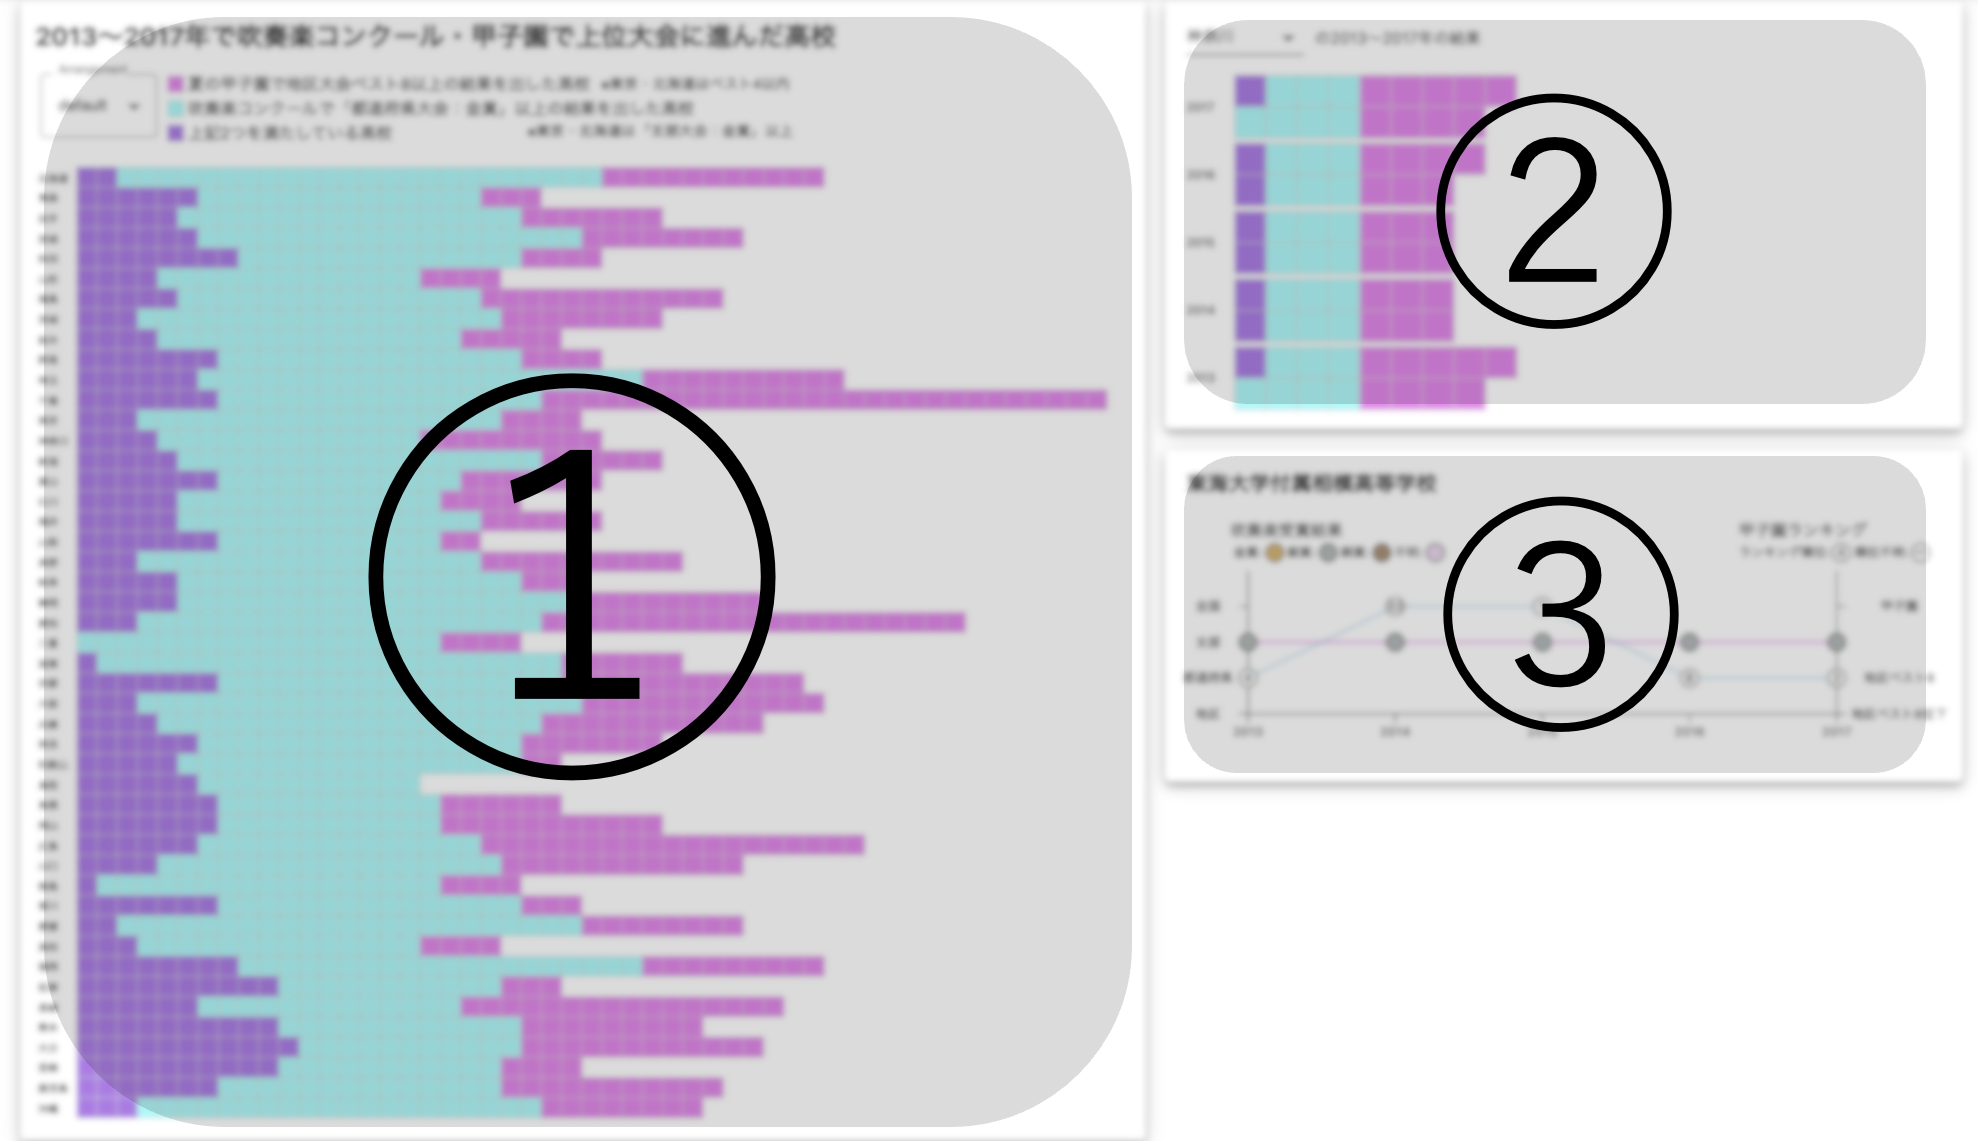
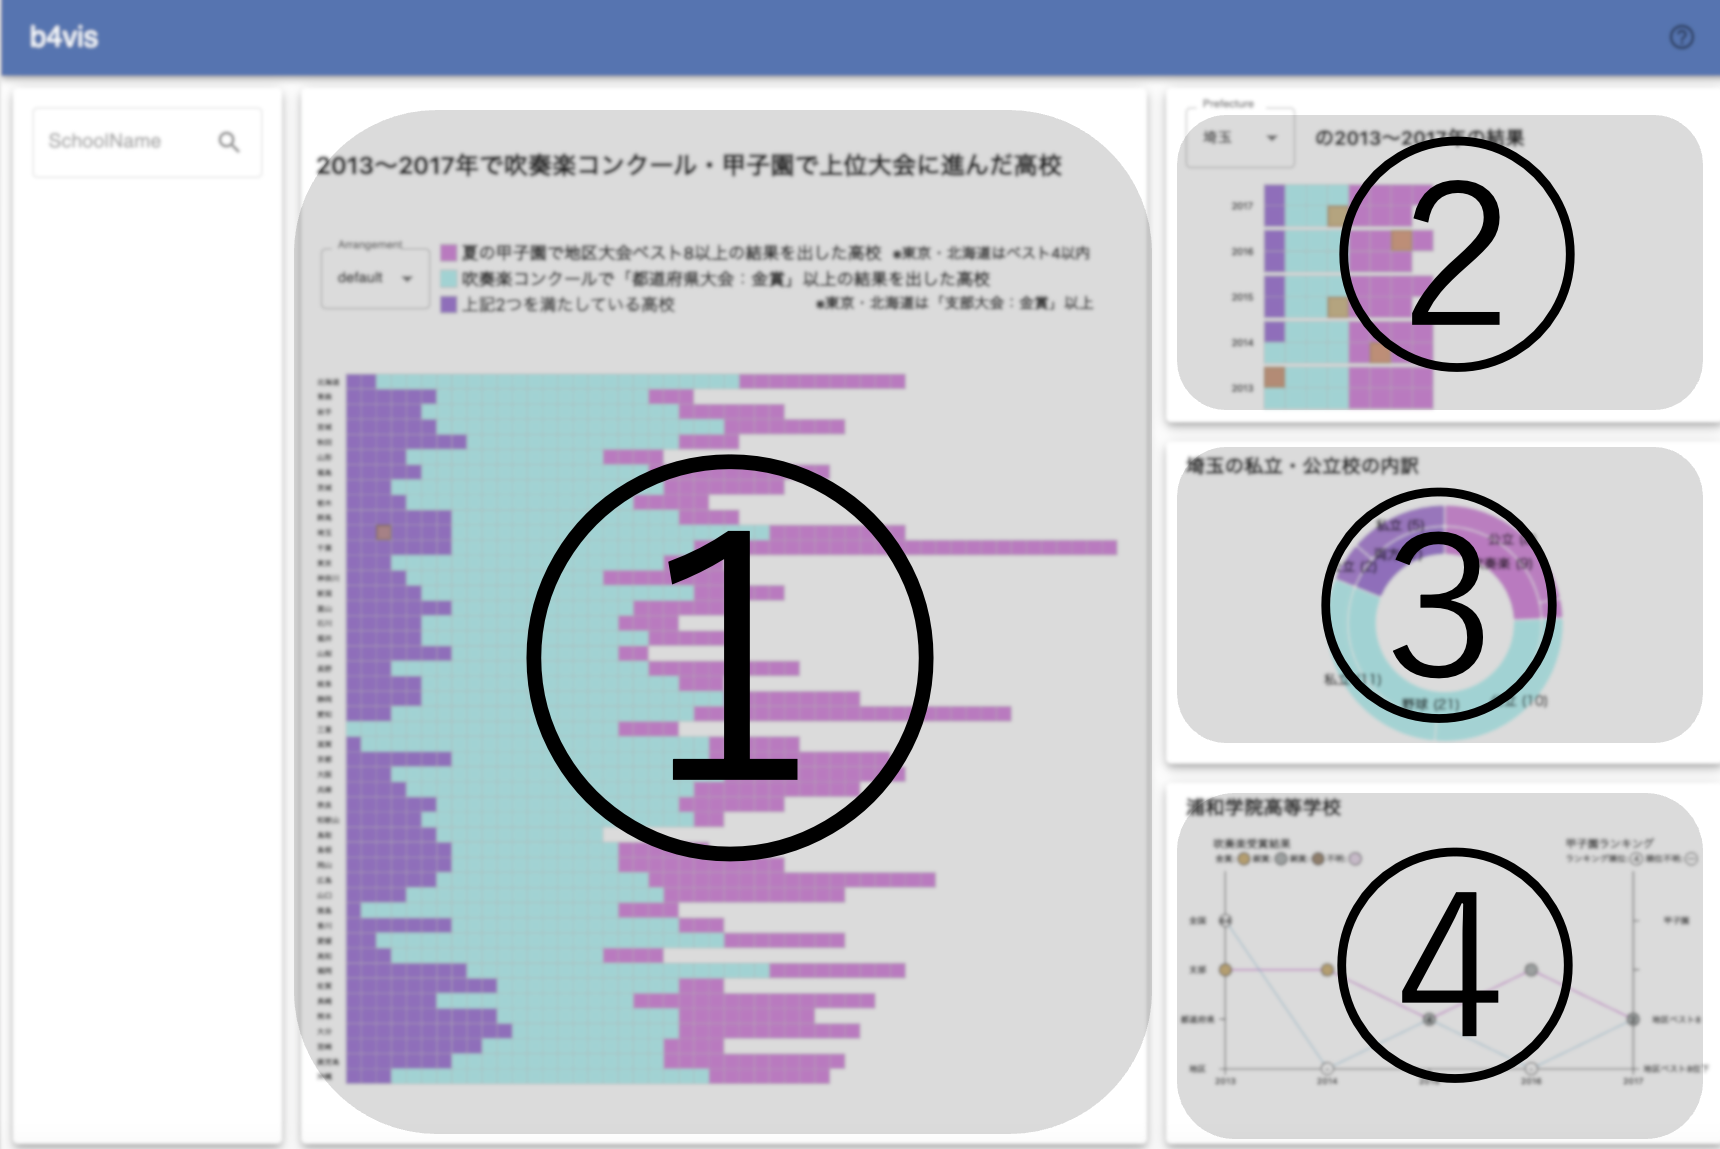
ヘルプダイアログの修正

diff --git a/components/HelpPopup.jsx b/components/HelpPopup.jsx
@@ -57,7 +57,13 @@ export function HelpPopup() {
                 </ul>
               </div>
               <div style={{ padding: "1rem 0 1rem 0" }}>
-                グラフのセルをクリックすることでその学校のある都道府県の2013~2017年の詳細(ビュー②)とその学校の詳細(ビュー③)を見ることができます。
+                グラフのセルをクリックすることでその学校のある都道府県の2013~2017年の詳細(ビュー②)とその学校の詳細(ビュー④)を見ることができます。
+             
+                また、セルをクリックするか県名を選ぶことで、ビュー③で該当する県の私立/公立校の内訳を見ることができます。
+              </div>
+
+              <div style={{ padding: "1rem 0 1rem 0" }}>
+                気になる学校がある場合は左の検索欄から調べることができます。
               </div>
               <div>
                 学校によってはデータが取れず不明の年もありますがご了承ください。

diff --git a/components/SearchSchool.jsx b/components/SearchSchool.jsx
@@ -69,7 +69,7 @@ const SearchSchool = (props) => {
         }}
       >
         <InputBase
-          placeholder="SchoolName"
+          placeholder="学校名で検索"
           inputProps={{ "aria-label": "SchoolName" }}
           inputRef={props.inputEl}
           onChange={(e) => {
